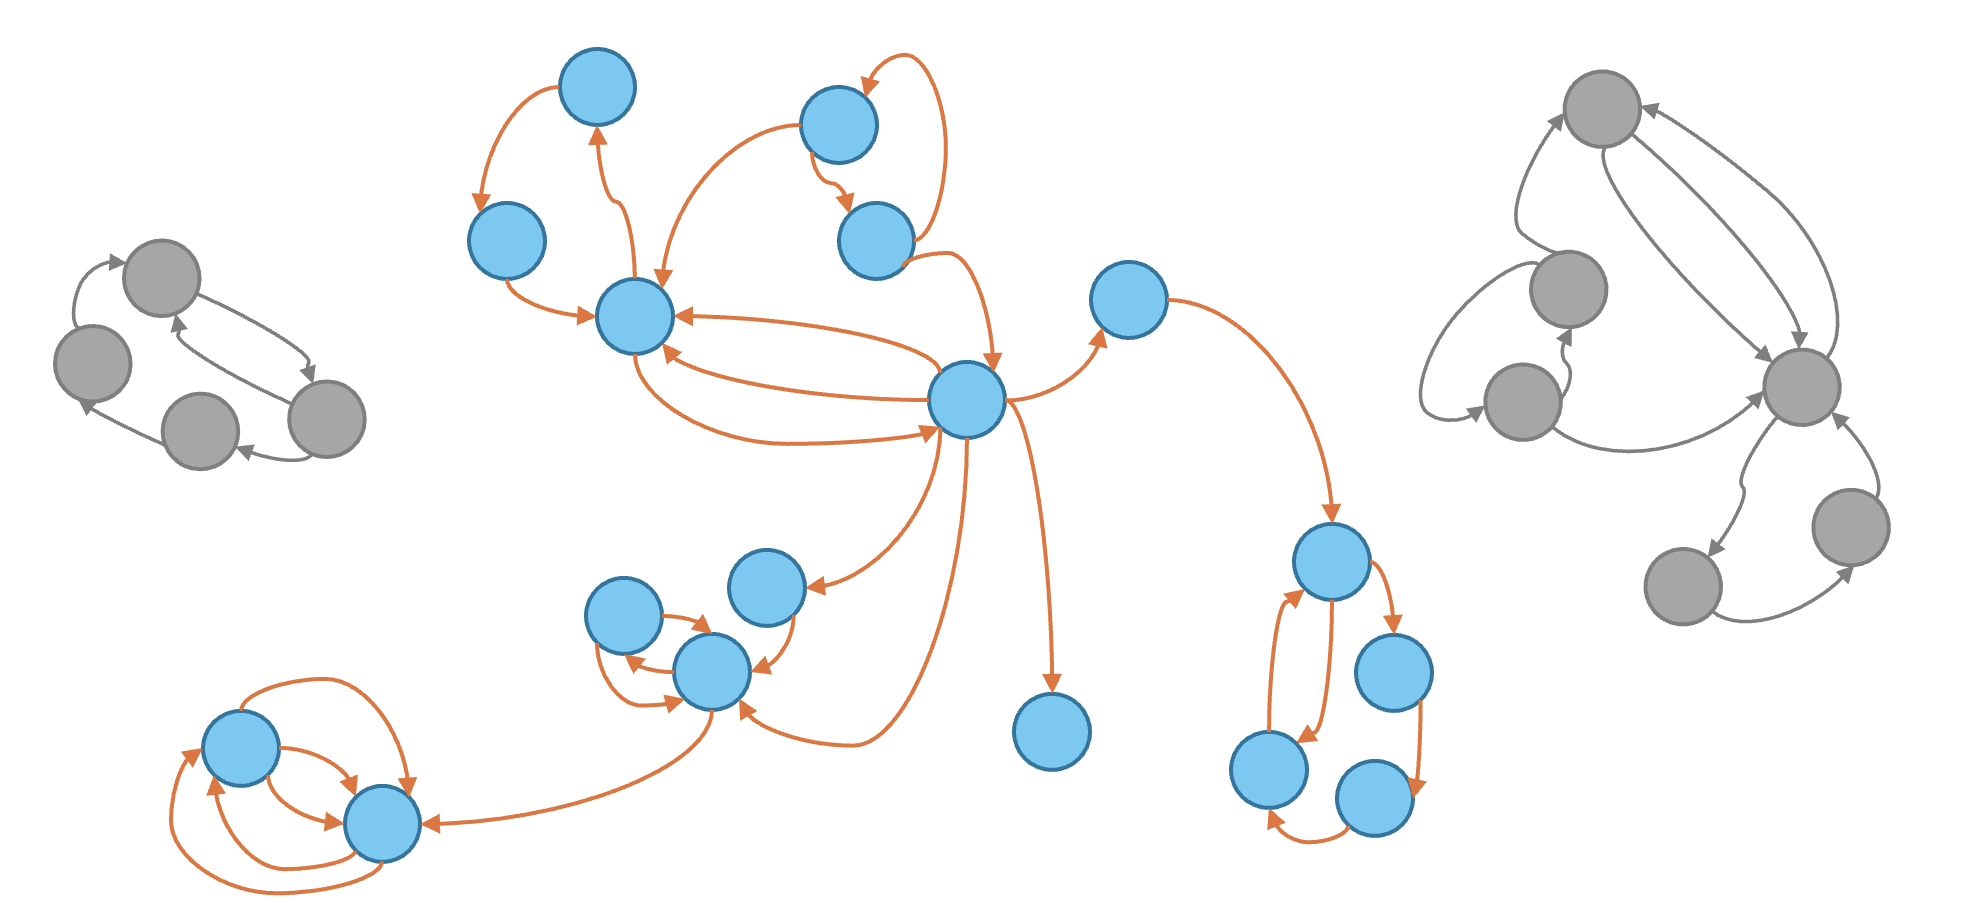
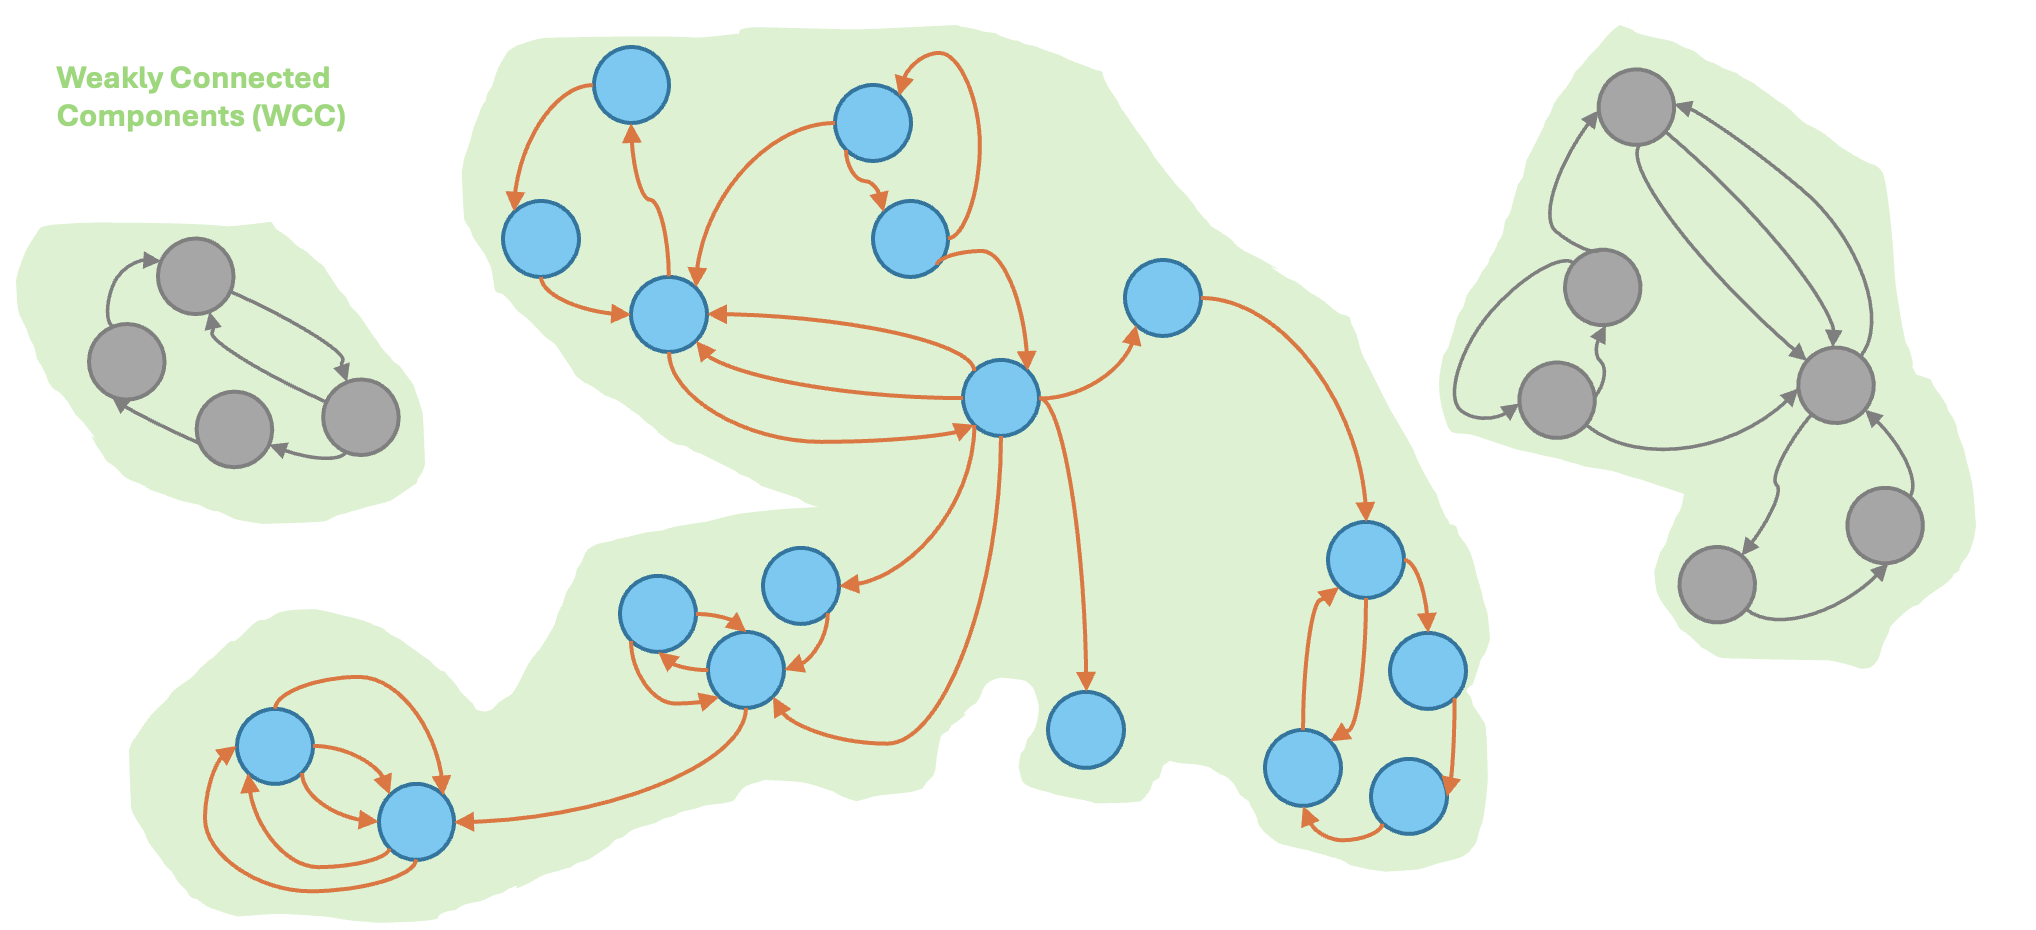
Add new content

diff --git a/index.md b/index.md
@@ -249,14 +249,14 @@ Graph-basierte Modelle erkennen versteckte Muster in Transaktionsnetzwerken, ind
 ### Graphen
 Graphen sind mathematische Strukturen, die aus Knoten (Nodes) und Kanten (Edges) bestehen und zur Darstellung von Beziehungen zwischen Objekten verwendet werden. Knoten repräsentieren dabei die Objekte selbst, während die Kanten die Verbindungen zwischen diesen Objekten beschreiben. In der Graphentheorie unterscheidet man zwischen verschiedenen Arten von Graphen: 
 <!-- <img src="assets/graphen_theorie.png" alt="graphen_theorie" class="hover-zoom" style="display: block; margin: 10px auto; width: 300px;"> -->
-<img src="assets/graph.png" alt="graph" class="hover-zoom" style="float: right; margin-left: 20px; width: 200px;">
+
 - Graphen ohne Mehrfachkanten:
     - Diese Graphen erlauben pro Knotenpaar maximal eine Kante. 
     - Die Verbindungen können dabei gerichtet oder ungerichtet sein. 
 - Graphen mit Mehrfachkanten (Multigraphen):
     - Hier können mehrere Kanten zwischen denselben Knoten existieren, die unterschiedliche Relationen oder mehrfach vorkommende Transaktionen darstellen. 
     - Multigraphen können ebenfalls ungerichtet oder gerichtet sein. 
-
+<img src="assets/graphen_theorie.png" alt="graphen_theorie" class="hover-zoom" style="float: right; margin-left: 20px; width: 200px;">
 > Beispiel: Ein ungerichteter Graph zeigt eine soziale Verbindung, etwa Freundschaften, während ein gerichteter Graph Transaktionen oder Flüsse zwischen Konten darstellt.
 
 <img src="assets/graph.png" alt="graph" class="hover-zoom" style="float: right; margin-left: 20px; width: 200px;">
@@ -264,7 +264,7 @@ In unserem spezifischen Anwendungsfall zur Geldwäsche-Erkennung haben wir ein g
 
 
 ### Data-Split
-<img src="assets/WCC.png" alt="WCC" class="hover-zoom" style="float: right; margin-left: 20px; width: 200px;">
+<img src="assets/WCC.png" alt="WCC" class="hover-zoom" style="float: left; margin-right: 20px; width: 300px;">
 Um die Daten optimal für Training und Evaluierung zu trennen, führten wir einen Community Split durch. Dieser Ansatz trennt die Splits vollständig und verhindert jegliche Interaktion zwischen ihnen, was Data Leakage – das unbeabsichtigte Übertragen von Informationen zwischen Trainings-, Validierungs- und Testdaten – effektiv vermeidet. Zunächst wandelten wir die tabellarischen Daten in einen Graphen um, wie im vorherigen Kapitel beschrieben. Dann identifizierten wir die größte Weakly Connected Component (WCC), den größten Teilgraphen, in dem alle Knoten unabhängig von der Kantenrichtung verbunden sind. So bleibt der Graph konsistent und zusammenhängend. 
 
 
